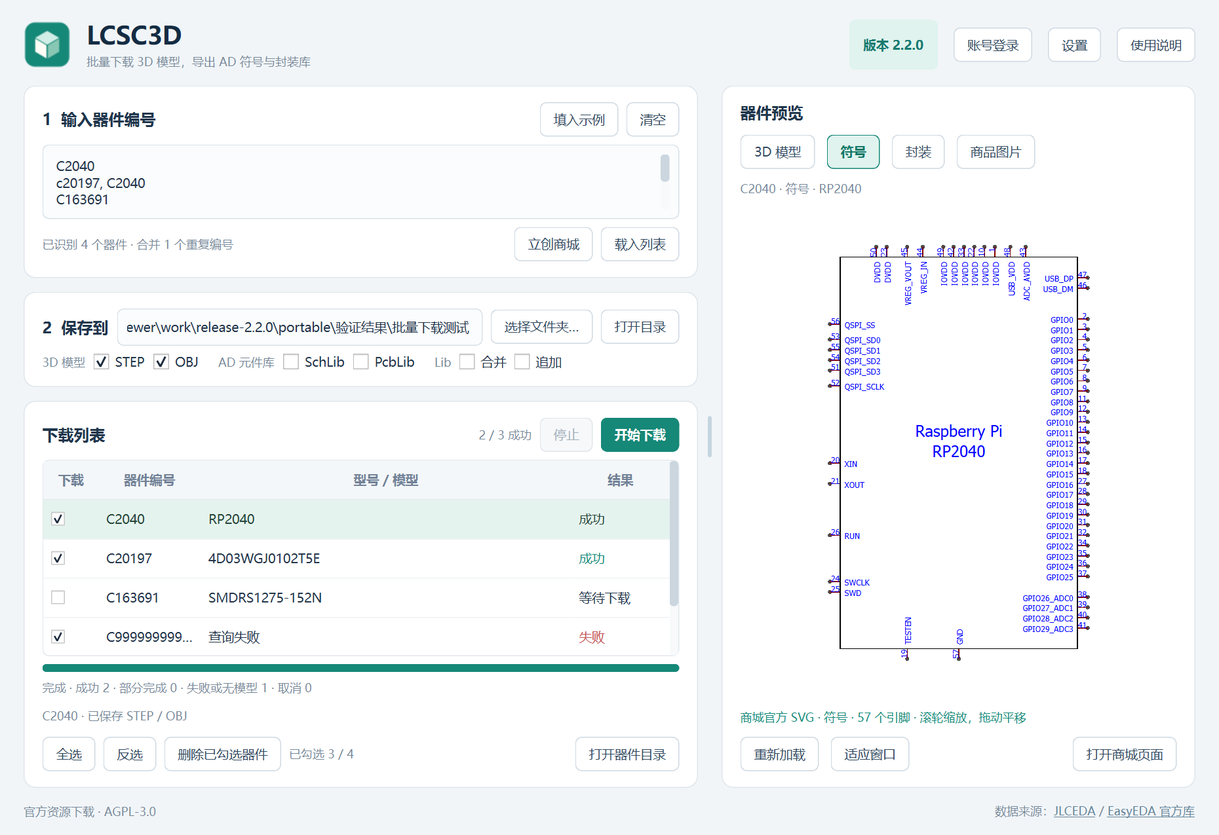
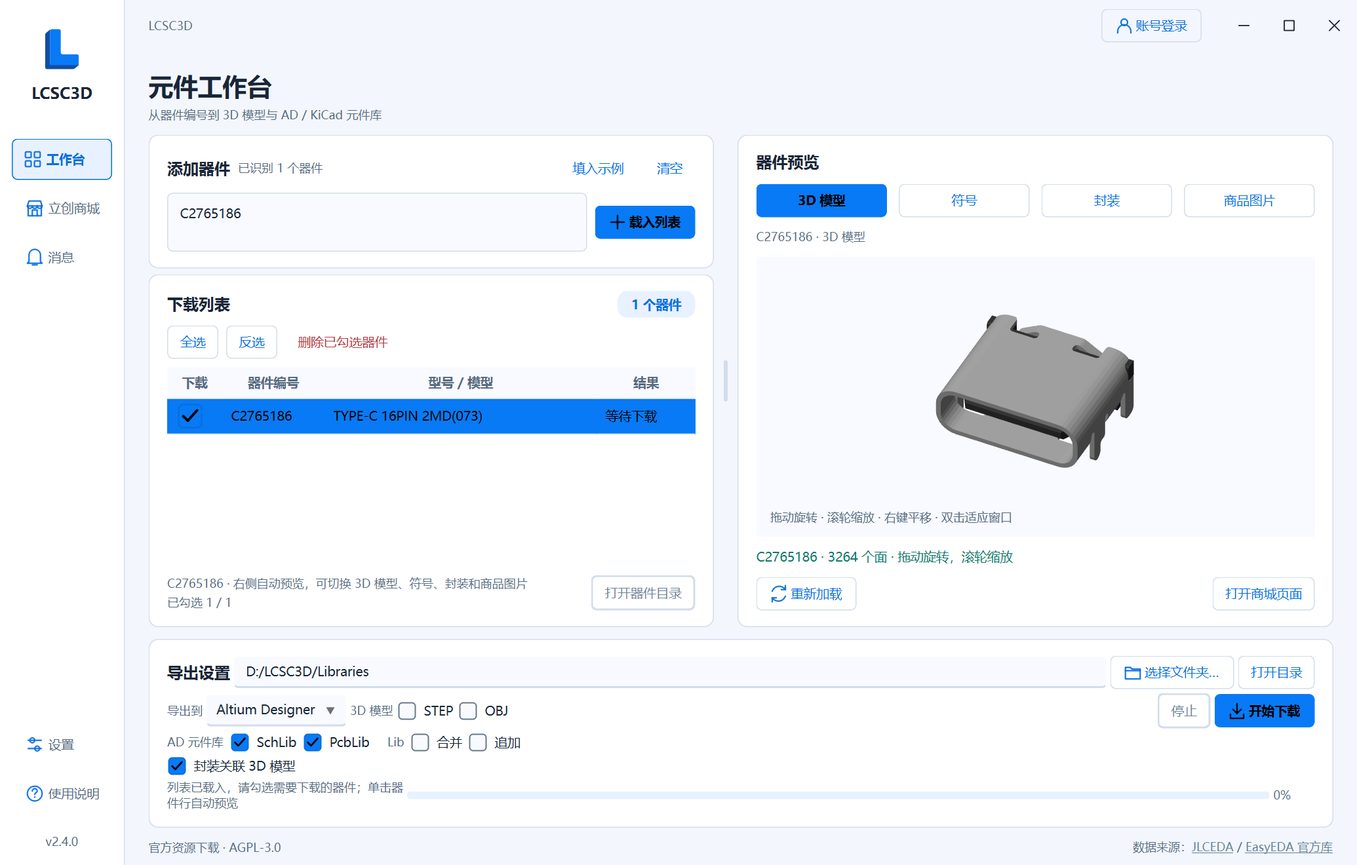
docs: announce 2.4.0 embedded 3D release with validated screenshots

diff --git a/README.en.md b/README.en.md
@@ -7,7 +7,7 @@
 
 [简体中文](README.md) | **English**
 
-# LCSC3D: LCSC 3D Model Downloader and AD / KiCad Library Exporter
+# LCSC3D: Embedded 3D Models and AD / KiCad Library Export
 
 [![Release](docs/images/release-badge.svg)](https://github.com/Travelerrrrrr/LCSC3D/releases/latest)
 [![Windows build](https://github.com/Travelerrrrrr/LCSC3D/actions/workflows/windows.yml/badge.svg)](https://github.com/Travelerrrrrr/LCSC3D/actions/workflows/windows.yml)
@@ -15,23 +15,24 @@
 [![License: AGPL-3.0](https://img.shields.io/badge/License-AGPL--3.0-blue.svg)](LICENSE)
 [![Support LCSC3D](https://img.shields.io/badge/Support-LCSC3D-087AF5)](docs/sponsorship.md)
 
-**Find parts through LCSC search, mainland account favorites or C-numbers, preview official resources, download STEP / OBJ models, and export AD or KiCad symbol and footprint libraries in batches.**
+**Find parts through LCSC search, mainland account favorites or C-numbers, and export AD / KiCad symbols and footprints with attached 3D models in batches. Download original STEP / OBJ files separately when needed.**
 
 LCSC3D is a portable Windows tool for hardware development, PCB design and mechanical fit checks. Download and run `LCSC3D.exe`; no Python installation is required. Generating libraries does not require the target EDA software to be installed.
 
-The source and local delivery are now **2.4.0**, adding smooth processing progress, a persistent Messages page and newest-first notices in the upper-right corner. The verified Type-C placement rules are retained. The online download links below still point to stable 2.3.0; this development build has not been published.
+**2.4.0 attaches 3D models to footprints by default.** AD PcbLib and KiCad 9/10 footprints embed STEP models, keeping the model with the library file. KiCad 8 uses portable external models. The original STEP size is preserved and the source placement anchor is converted before applying the official pose.
 
-**Current version: 2.3.0** · **[Download for Windows](https://github.com/Travelerrrrrr/LCSC3D/releases/latest/download/LCSC3D.exe)** · [Full source package](https://github.com/Travelerrrrrr/LCSC3D/releases/latest/download/LCSC3D.zip) · [User guide (Chinese)](app/README.md) · [Release notes (Chinese)](docs/releases/v2.3.0.md) · [Report an issue](https://github.com/Travelerrrrrr/LCSC3D/issues)
+**Current version: 2.4.0** · **[Download for Windows](https://github.com/Travelerrrrrr/LCSC3D/releases/latest/download/LCSC3D.exe)** · [Full source package](https://github.com/Travelerrrrrr/LCSC3D/releases/latest/download/LCSC3D.zip) · [User guide (Chinese)](app/README.md) · [Release notes (Chinese)](docs/releases/v2.4.0.md) · [Report an issue](https://github.com/Travelerrrrrr/LCSC3D/issues)
 
-![LCSC3D 2.3.0 workspace with KiCad symbol preview and export settings](docs/images/2.3.0-release/kicad.png)
+![LCSC3D 2.4.0 workspace: Type-C 3D preview, enabled footprint model binding, Messages navigation and download progress](docs/images/2.4.0-release/main.png)
 
-## What's new in 2.3.0
+## What's new in 2.4.0
 
-- **KiCad 8+ export:** Generate `.kicad_sym` symbol libraries and `.pretty` footprint libraries, with individual exports, independent merging and optional per-part copies.
-- **Target-specific settings:** Switch between AD and KiCad through **Export to**, retaining each target's settings. Configure KiCad pin electrical types and preview symbols in KiCad style.
-- **EDA intermediate representation:** Store component electrical and geometric information once, then generate files through each EDA's exporter, providing a foundation for future targets.
-- **Export and layout fixes:** Correct reversed pins in some symbols, support footprint vias, and fix overlapping result text, control spacing and flicker when toggling Merge.
-- **Selection and file management:** Product thumbnails in search and favorites, 20 results per search page, and custom AD project output folders, library names and direct library imports. Improved export logging and diagnostics.
+- **Embedded 3D models:** STEP inside AD `.PcbLib` and KiCad 9/10 footprint files, with relative external STEP paths for KiCad 8.
+- **Batch model binding:** Supported in individual exports, merged libraries, retained copies and AD append, independently of standalone STEP downloads.
+- **Original model dimensions:** Correct Type-C horizontal and height anchors while preserving official rotations, offsets and STEP contents.
+- **Smooth progress:** Lookup, preparation, processing and file publication contribute to progress. Cancellation does not falsely show 100%.
+- **Message history:** New Messages navigation, newest-first notices in the upper-right corner, search, filters and copyable details.
+- **Code and diagnostics:** Application packages organized by responsibility, with logs, updates, backups and recovery retained. All 636 regression tests passed.
 
 Earlier changes are listed in the [version history (Chinese)](docs/版本历史.md).
 
@@ -44,6 +45,28 @@ Earlier changes are listed in the [version history (Chinese)](docs/版本历史.
 5. Click **Download**, then **Part folder**. Open SchLib / PcbLib in AD, or add the symbol file and footprint directory through KiCad's library managers.
 
 **Merging again uses the current selection.** Normal and merged AD / KiCad exports replace same-name libraries after successful generation. KiCad replaces the entire same-name `.pretty` directory, removing old members. Include every part you want to retain. AD's **Append** mode adds parts to existing libraries; KiCad append is not currently available.
+
+## Embedded 3D models
+
+Select AD **PcbLib** or KiCad **Footprints** and leave **Attach 3D models to footprints** enabled. LCSC3D fetches the required official STEP and writes its placement into the footprint. **You do not need to select standalone STEP downloads or attach each model manually in the EDA application.**
+
+| Target | Model storage | Moving the library |
+| --- | --- | --- |
+| Altium Designer | STEP embedded in `.PcbLib` | The model stays inside the footprint library |
+| KiCad 9 / 10 | STEP embedded in `.kicad_mod` | The model stays with the footprint file; keep the `.pretty` library structure |
+| KiCad 8 | External STEP in `.pretty/LCSC3D.3dshapes/` | Keep the entire `.pretty` folder and model directory |
+
+These user-provided AD and KiCad screenshots show the exported Type-C models. Click an image to view the original.
+
+| AD embedded model example 1 | AD embedded model example 2 |
+| --- | --- |
+| <a href="docs/images/2.4.0-release/ad-embedded-typec-user.png"><img src="docs/images/2.4.0-release/ad-embedded-typec-user.png" alt="User validation: Type-C 3D model and footprint in an AD PcbLib" width="440"></a> | <a href="docs/images/2.4.0-release/ad-embedded-typec-side-user.png"><img src="docs/images/2.4.0-release/ad-embedded-typec-side-user.png" alt="User validation: another Type-C model and pads in AD" width="440"></a> |
+
+| KiCad PCB 3D view | KiCad underside and pads |
+| --- | --- |
+| <a href="docs/images/2.4.0-release/kicad-embedded-typec-top-user.png"><img src="docs/images/2.4.0-release/kicad-embedded-typec-top-user.png" alt="User validation: Type-C model and PCB in KiCad" width="440"></a> | <a href="docs/images/2.4.0-release/kicad-embedded-typec-bottom-user.png"><img src="docs/images/2.4.0-release/kicad-embedded-typec-bottom-user.png" alt="User validation: Type-C underside pads and mounting pins in KiCad" width="440"></a> |
+
+A missing or failed 3D model does not discard an available 2D footprint. **A storefront product does not guarantee that official symbol, footprint or model data is available.** See the [user guide (Chinese)](app/README.md) and [placement details (Chinese)](docs/3D模型放置.md).
 
 ## Symbol and footprint export
 
@@ -58,7 +81,7 @@ Earlier changes are listed in the [version history (Chinese)](docs/版本历史.
 
 In KiCad, **use the exported footprint library name as its nickname**, such as `LCSC3D`, so symbol footprint references resolve. Footprint vias retain their positions, drills and copper rings; confirm their net assignment in the PCB. Conversion approximations appear in export results.
 
-Both targets support multi-unit symbols, string pin numbers and common surface-mount / through-hole footprints. Stable 2.3.0 requires manual model association. Local development version **2.4.0 binds models by default**: embedded STEP for AD and KiCad 9/10, and portable external STEP for KiCad 8. See the [user guide](app/README.md). AD IntLib generation is not supported.
+Both targets support multi-unit symbols, string pin numbers and common surface-mount / through-hole footprints, with available 3D models attached by default. AD IntLib generation is not supported.
 
 Detailed operations are in the [user guide (Chinese)](app/README.md).
 
@@ -157,7 +180,7 @@ Startup checks for stable updates in the background. Use **Settings → About & 
 
 ## Requirements and limitations
 
-Downloads and online previews need internet access. 3D preview needs a graphics driver supporting WebGL. KiCad 8 / 9 / 10 have been verified; see the [verification record (Chinese)](docs/2.3.0验证记录.md) for scope.
+Downloads and online previews need internet access. 3D preview needs a graphics driver supporting WebGL. KiCad 8 / 9 / 10 have been verified; see the [verification record (Chinese)](docs/2.4.0验证记录.md) for scope.
 
 Preview and export assist selection and design. Check pins, electrical types, dimensions and footprints against the datasheet before production use. Re-export any symbols affected by reversed pins in earlier versions.
 

diff --git a/README.md b/README.md
@@ -7,7 +7,7 @@
 
 **简体中文** | [English](README.en.md)
 
-# LCSC3D：立创元件 3D 模型下载与 AD / KiCad 元件库导出
+# LCSC3D：3D 模型内嵌与 AD / KiCad 元件库导出
 
 [![Release](docs/images/release-badge.svg)](https://github.com/Travelerrrrrr/LCSC3D/releases/latest)
 [![Windows build](https://github.com/Travelerrrrrr/LCSC3D/actions/workflows/windows.yml/badge.svg)](https://github.com/Travelerrrrrr/LCSC3D/actions/workflows/windows.yml)
@@ -15,23 +15,24 @@
 [![License: AGPL-3.0](https://img.shields.io/badge/License-AGPL--3.0-blue.svg)](LICENSE)
 [![赞助支持 LCSC3D](docs/images/sponsorship/button.svg)](docs/sponsorship.md)
 
-**从立创商城搜索、账号收藏或 C 编号选择元件，预览官方资源，批量下载 STEP / OBJ，并导出 AD 或 KiCad 符号库与封装库。**
+**从立创商城搜索、账号收藏或 C 编号选择元件，批量生成 AD / KiCad 符号库，以及自带 3D 模型的封装库。也可独立下载官方 STEP / OBJ。**
 
 LCSC3D 是面向硬件开发、PCB 设计和结构配合的 Windows 便携工具。下载 `LCSC3D.exe` 即可运行，无须安装 Python；生成元件库也无须安装对应的 EDA 软件。
 
-当前源码与本地交付为 **2.4.0**，新增按处理阶段更新的平滑下载进度、“消息”记录页和最新在上的右上角通知；保留已验证的 Type-C 模型放置规则。以下在线下载仍指向正式版 2.3.0；本次未发布 Release。
+**2.4.0 默认开启封装关联 3D 模型。** AD PcbLib 与 KiCad 9/10 封装直接内嵌 STEP，模型随库文件保存，无需逐个手动关联；KiCad 8 提供外部模型兼容模式。保留 STEP 原始尺寸，并按官方位姿换算放置基准。
 
-**当前版本：2.3.0** · **[下载 Windows 程序](https://github.com/Travelerrrrrr/LCSC3D/releases/latest/download/LCSC3D.exe)** · [完整源码包](https://github.com/Travelerrrrrr/LCSC3D/releases/latest/download/LCSC3D.zip) · [使用说明](app/README.md) · [本版更新](docs/releases/v2.3.0.md) · [问题反馈](https://github.com/Travelerrrrrr/LCSC3D/issues)
+**当前版本：2.4.0** · **[下载 Windows 程序](https://github.com/Travelerrrrrr/LCSC3D/releases/latest/download/LCSC3D.exe)** · [完整源码包](https://github.com/Travelerrrrrr/LCSC3D/releases/latest/download/LCSC3D.zip) · [使用说明](app/README.md) · [本版更新](docs/releases/v2.4.0.md) · [问题反馈](https://github.com/Travelerrrrrr/LCSC3D/issues)
 
-![LCSC3D 2.3.0 工作台：KiCad 符号预览与导出设置](docs/images/2.3.0-release/kicad.png)
+![LCSC3D 2.4.0 工作台：Type-C 三维预览、默认开启封装关联 3D 模型、新消息入口与下载进度](docs/images/2.4.0-release/main.png)
 
-## 2.3.0 更新重点
+## 2.4.0 更新重点
 
-- **新增 KiCad 8+ 导出**：生成 `.kicad_sym` 符号库和 `.pretty` 封装库，支持独立导出、分别合并和保留单器件副本。
-- **按软件显示配置**：通过“导出到”切换 AD / KiCad，分别记住设置。KiCad 可配置引脚电气类型，并显示对应的符号预览。
-- **引入 EDA 中间层**：统一保存元件的电气与几何信息，由各软件的导出器生成文件，为后续适配其他 EDA 提供基础。
-- **修复导出与排版**：修正部分符号的引脚方向，补齐封装过孔，修复长结果文字重叠、控制栏间距和点击“合并”时的闪动。
-- **改进选型和文件管理**：搜索与收藏列表增加商品缩略图，搜索每页 20 项；AD 追加支持自定义工程输出目录、库名及按钮直接导入工程。完善导出日志与故障诊断。
+- **封装内嵌 3D**：AD `.PcbLib` 内嵌 STEP；KiCad 9/10 将模型保存到封装文件，KiCad 8 使用库内相对路径引用外部 STEP。
+- **批量生成带模型的封装**：单器件、分别合并、保留独立副本和 AD 追加均支持模型关联；不必另勾 STEP 下载。
+- **保持模型原始尺寸**：修正 Type-C 的水平和高度基准换算，保留官方角度、偏移和原始 STEP 内容。
+- **平滑下载进度**：查询、模型准备、处理和写库阶段推动进度；取消不再误显示 100%。
+- **消息记录**：左侧新增“消息”，通知统一从右上角出现，新消息在上；支持历史查看、搜索、筛选与复制。
+- **代码与诊断整理**：应用实现按职责分包，保留日志、更新、备份与失败恢复流程；636 项全量回归通过。
 
 旧版变化见 [版本历史](docs/版本历史.md)。
 
@@ -44,6 +45,28 @@ LCSC3D 是面向硬件开发、PCB 设计和结构配合的 Windows 便携工具
 5. 点击 **开始下载**，完成后点击 **打开器件目录**。在 AD 中打开 SchLib / PcbLib；在 KiCad 库管理器中添加符号库文件和封装库目录。
 
 **再次合并以本次勾选为准。** AD 和 KiCad 的普通导出、合并会在生成成功后覆盖同名库；KiCad 会替换整个同名 `.pretty` 目录，移除旧成员。需要保留的元件须一并勾选。AD 的 **追加** 模式用于向已有库增加元件，KiCad 暂不提供追加。
+
+## 封装内嵌 3D 模型
+
+勾选 AD **PcbLib** 或 KiCad **封装库**，保持 **封装关联 3D 模型** 开启，软件会取得所需官方 STEP 并写入封装。**无需另勾“STEP”下载，也无需在 EDA 中逐个手动关联模型。**
+
+| 目标 | 模型保存方式 | 复制或搬迁 |
+| --- | --- | --- |
+| Altium Designer | STEP 内嵌到 `.PcbLib` | 模型随封装库文件保存 |
+| KiCad 9 / 10 | STEP 内嵌到 `.kicad_mod` | 模型随封装文件保存，保留 `.pretty` 库结构 |
+| KiCad 8 | `.pretty/LCSC3D.3dshapes/` 内的外部 STEP | 整体保留 `.pretty` 文件夹及其模型目录 |
+
+以下是用户提供的 AD、KiCad 实测截图，展示导出后的 Type-C 三维效果。点击图片可查看原图。
+
+| AD 内嵌模型示例一 | AD 内嵌模型示例二 |
+| --- | --- |
+| <a href="docs/images/2.4.0-release/ad-embedded-typec-user.png"><img src="docs/images/2.4.0-release/ad-embedded-typec-user.png" alt="用户实测：AD PcbLib 中的 Type-C 三维模型与封装" width="440"></a> | <a href="docs/images/2.4.0-release/ad-embedded-typec-side-user.png"><img src="docs/images/2.4.0-release/ad-embedded-typec-side-user.png" alt="用户实测：AD 中另一款 Type-C 模型及焊盘" width="440"></a> |
+
+| KiCad PCB 三维视图 | KiCad 底面与焊盘视图 |
+| --- | --- |
+| <a href="docs/images/2.4.0-release/kicad-embedded-typec-top-user.png"><img src="docs/images/2.4.0-release/kicad-embedded-typec-top-user.png" alt="用户实测：KiCad 中 Type-C 模型与 PCB 的三维效果" width="440"></a> | <a href="docs/images/2.4.0-release/kicad-embedded-typec-bottom-user.png"><img src="docs/images/2.4.0-release/kicad-embedded-typec-bottom-user.png" alt="用户实测：KiCad 中 Type-C 底部焊盘与固定脚" width="440"></a> |
+
+缺少 3D 模型时仍可导出可用的二维封装；模型关联失败会保留二维结果并说明原因。**商城有商品，不代表官方已提供符号、封装或 3D 资源。**具体操作与放置范围见 [使用说明](app/README.md#封装关联-3d-模型) 和 [模型放置说明](docs/3D模型放置.md)。
 
 ## 符号与封装导出
 
@@ -58,7 +81,7 @@ LCSC3D 是面向硬件开发、PCB 设计和结构配合的 Windows 便携工具
 
 KiCad 添加封装库时，**库昵称应与导出库名一致**，例如 `LCSC3D`，以便符号找到对应封装。KiCad 封装中的过孔保留位置、孔径和铜环，网络归属需在 PCB 中确认。导出过程需要近似转换时，会在结果中提示。
 
-两种目标均支持多单元符号、字符串引脚编号和常见贴片 / 通孔封装。正式版 2.3.0 需要手动关联模型；本地开发版 **2.4.0 默认关联 3D**，支持 AD 内嵌、KiCad 9/10 内嵌与 KiCad 8 外部模型，详见 [使用说明](app/README.md)。AD 暂不生成 IntLib。
+两种目标均支持多单元符号、字符串引脚编号和常见贴片 / 通孔封装，并默认关联可用的 3D 模型。AD 暂不生成 IntLib。
 
 具体操作见 [使用说明](app/README.md)。
 
@@ -157,7 +180,7 @@ flowchart LR
 
 ## 使用范围
 
-下载和在线预览需要联网，3D 预览需要支持 WebGL 的显卡驱动。已验证 KiCad 8 / 9 / 10；支持情况与本版验证范围见 [验证记录](docs/2.3.0验证记录.md)。
+下载和在线预览需要联网，3D 预览需要支持 WebGL 的显卡驱动。已验证 KiCad 8 / 9 / 10；支持情况与本版验证范围见 [验证记录](docs/2.4.0验证记录.md)。
 
 预览和导出用于辅助选型与设计，生产使用前仍需按数据手册核对引脚、电气类型、尺寸和封装。此前用旧版导出的引脚方向异常符号，需要重新导出。
 

diff --git a/docs/releases/v2.4.0.md b/docs/releases/v2.4.0.md
@@ -1,0 +1,46 @@
+# LCSC3D 2.4.0：封装内嵌 3D 模型
+
+2.4.0 默认开启 **封装关联 3D 模型**。批量生成 AD / KiCad 封装库时，软件取得官方 STEP、换算放置基准，并将模型写入封装，减少逐个手动关联模型的操作。
+
+下载 `LCSC3D.exe` 即可在 Windows 10/11 x64 上运行，无须安装 Python 或外部转换工具。
+
+## 3D 模型直接进入封装库
+
+- **Altium Designer**：STEP 内嵌到 `.PcbLib`，模型随库文件保存和搬迁。
+- **KiCad 9 / 10**：STEP 内嵌到 `.kicad_mod`，保留 `.pretty` 库结构即可携带模型。
+- **KiCad 8**：选择外部模型模式，STEP 位于 `.pretty/LCSC3D.3dshapes/`，使用相对路径；搬迁时保留整个 `.pretty` 文件夹。
+- 单器件、合并、保留独立副本及 AD 追加均支持模型关联；**无需另勾 STEP 下载**。
+- 模型保持官方 STEP 原始尺寸和内容，不生成缩放副本。修正 Type-C 的水平/高度放置基准以及旧画布原点问题。
+- 没有模型或模型关联失败时，保留可用的二维封装并说明原因；不会因为缺少 3D 丢弃整个元件库。
+
+## 用户实测：AD 与 KiCad 三维效果
+
+以下四张图片由用户提供，展示导出后的 Type-C 模型、封装和 PCB 三维效果。点击可查看原图。
+
+| AD 内嵌模型示例一 | AD 内嵌模型示例二 |
+| --- | --- |
+| <a href="../images/2.4.0-release/ad-embedded-typec-user.png"><img src="../images/2.4.0-release/ad-embedded-typec-user.png" alt="AD PcbLib 中的 Type-C 三维模型与封装" width="440"></a> | <a href="../images/2.4.0-release/ad-embedded-typec-side-user.png"><img src="../images/2.4.0-release/ad-embedded-typec-side-user.png" alt="AD 中另一款 Type-C 模型及焊盘" width="440"></a> |
+
+| KiCad PCB 三维视图 | KiCad 底面与焊盘视图 |
+| --- | --- |
+| <a href="../images/2.4.0-release/kicad-embedded-typec-top-user.png"><img src="../images/2.4.0-release/kicad-embedded-typec-top-user.png" alt="KiCad 中 Type-C 模型与 PCB 的三维效果" width="440"></a> | <a href="../images/2.4.0-release/kicad-embedded-typec-bottom-user.png"><img src="../images/2.4.0-release/kicad-embedded-typec-bottom-user.png" alt="KiCad 中 Type-C 底部焊盘与固定脚" width="440"></a> |
+
+## 新版工作台
+
+![LCSC3D 2.4.0 工作台：三维预览、封装关联模型和消息入口](../images/2.4.0-release/main.png)
+
+- **平滑下载进度**：查询、模型准备、格式处理、合并和写库阶段均推动进度；取消保留实际进度。
+- **消息历史**：左侧增加“消息”，可查看已弹出的通知，搜索、筛选、复制和清空记录；重启后可查阅。
+- **右上角通知**：新消息在上方出现，早到的消息平滑下移；收起通知不删除历史。
+- **轻量模型处理**：仅扫描来源模型的顶点获取放置基准，不构建导出网格、不运行 CAD 内核或比较 STEP/OBJ 表面。
+- **代码整理**：应用按界面、服务、EDA 导出、模型及公共模块分包，更新构建、交付与源码检查流程。
+
+## 验证与使用
+
+本版通过 **636 项全量回归测试**、最终 EXE 的进度/消息验收、9 组模型导出自检，以及实际更新助手的替换和重启流程。模型关联覆盖 AD 与 KiCad、合并、独立副本及异常时保留二维结果。详细记录见 [验证记录](../2.4.0验证记录.md)。
+
+勾选 **PcbLib / KiCad 封装库**，保持 **封装关联 3D 模型** 开启，导出后在对应 EDA 中打开。KiCad 库昵称需与导出库名一致。AD / KiCad 普通导出与再次合并覆盖同名库，以本次选择为准；AD 追加保留旧成员，KiCad 暂不支持追加。
+
+商城商品存在不代表官方已经提供符号、封装或模型。单独下载 STEP/OBJ 与库内模型关联分别控制；模型的适用范围与操作见 [使用说明](../../app/README.md) 和 [模型放置说明](../3D模型放置.md)。
+
+Release 附件：`LCSC3D.exe`（便携程序）、`LCSC3D.zip`（完整源码）、`SHA256SUMS.txt`（SHA-256 校验和）。已有版本可从 **设置 → 关于与支持 → 检查更新** 升级。

diff --git a/docs/版本历史.md b/docs/版本历史.md
@@ -1,5 +1,15 @@
 # LCSC3D 版本历史
 
+## 2.4.0
+
+- 默认开启封装关联 3D：AD PcbLib 与 KiCad 9/10 内嵌 STEP，KiCad 8 提供外部模型模式。
+- 单器件、合并、独立副本和 AD 追加保留模型；无需另选 STEP 下载，保留原始尺寸及内容。
+- 修正 Type-C 的水平/高度基准与旧画布原点，采用轻量顶点扫描，移除 CAD 内核与几何比对。
+- 下载阶段推动平滑进度；新增消息历史、搜索、筛选和复制，通知从右上角最新在上显示。
+- 应用代码按职责分包，保留日志、备份、更新及失败恢复；636 项全量回归和成品验收通过。
+- README 更新新版工作台截图及用户提供的 AD/KiCad 三维实测图片。
+- [更新说明](releases/v2.4.0.md) · [验证记录](2.4.0验证记录.md)
+
 ## 2.4.0-demo.2（本地修复）
 
 - 修复 C2861386 等官方 JSON 中旧模型原点与新封装坐标混用，造成模型偏移及“明显远离封装”提醒的问题。
@@ -60,7 +70,7 @@
 - [更新说明](releases/v2.3.0-demo.1.md) · [架构说明](EDA中间层.md)
 
 
-2026-10-06 起，软件正式名称固定为 **LCSC3D**。主窗口标题、界面标题、应用名称和构建名称均使用 LCSC3D，不附加 Portable、Source、版本号或其他后缀。本次正式发行版本为 **2.3.0**，版本信息单独显示。
+2026-10-06 起，软件正式名称固定为 **LCSC3D**。主窗口标题、界面标题、应用名称和构建名称均使用 LCSC3D，不附加 Portable、Source、版本号或其他后缀。当前正式发行版本为 **2.4.0**，版本信息单独显示。
 
 最新本地交付固定为 `outputs/LCSC3D.exe` 和源码包 `outputs/LCSC3D.zip`，源码包根目录为 `LCSC3D/`。使用 `outputs/v版本号/` 暂存发行文件时，同步根目录 EXE、源码包、说明与校验和，保持最新交付入口一致。
 

diff --git a/docs/2.4.0验证记录.md b/docs/2.4.0验证记录.md
@@ -1,6 +1,6 @@
 # 2.4.0 下载进度、消息页与通知堆叠
 
-验证日期：2026-10-13。本地开发交付，不发布 Release。
+验证日期：2026-10-13。2.4.0 正式发布前的功能、成品与更新验证。
 
 ## 行为
 
@@ -16,7 +16,7 @@
 
 应用的 63 个实现模块迁入 `app/lcsc3d/`，按 core、services、eda、models、ui、selftests 六个目录管理；增加统一资源根目录模块。内部使用完整包路径，更新测试的导入及替换路径、版本检查、发行工作流与递归打包审计。按迁移前快照核对日志事件编号与更新助手文件名，保持既有诊断及更新标识不变。源码入口和 EXE 引导入口仍保留在 app 根目录。
 
-最终版本为 2.4.0，Windows 版本资源为 2.4.0.0。此任务同步分支，但不创建 Release 或标签；在线下载链接仍指向已发布的版本。
+最终版本为 2.4.0，Windows 版本资源为 2.4.0.0。开发交付阶段已同步分支；正式发布使用 v2.4.0 标签、LCSC3D.exe、完整源码 ZIP 和 SHA256SUMS.txt。
 
 ## 日志覆盖
 
@@ -39,3 +39,5 @@
 回归材料位于已忽略的 `work/progress-messages/`，不提交 EXE、日志、诊断 ZIP、配置或临时验证文件。
 
 最终 EXE 为 148,525,685 字节，固定入口 `outputs/LCSC3D.exe`，源码 ZIP、使用说明、验证记录与 SHA-256 清单同步。
+
+发布素材：新版首页由与最终 EXE 模块一致的 2.4.0 源码在隔离目录运行并捕获，显示真实公开 Type-C OBJ 预览，不访问用户会话。四张 AD/KiCad 三维图由用户提供并授权公开使用，保留原始图片内容。

diff --git a/app/README.md b/app/README.md
@@ -4,7 +4,7 @@ Windows 10/11 x64 便携软件，用嘉立创商城 C 编号下载官方 STEP/OB
 
 3D 预览读取官方 OBJ 网格，STEP 可独立下载。当前模型关联没有可用 STEP 时，程序会查询封装所关联的官方 3D 库，解析真实资源编号后尝试备用 STEP。单独下载的模型保留官方原始坐标和内容；关联到封装时，保留原始 STEP 的尺寸和内容，先按官方规则换算 XY 中心和最低 Z 基准，再应用 JSON 位置与角度。基准来自实际 STEP 资源配套 OBJ 的顶点扫描；不构建网格，不读取 STEP 几何，不进行表面比对或缩放。
 
-2.4.0 本地交付默认开启 **封装关联 3D 模型**，支持 AD 内嵌 STEP、KiCad 9/10 内嵌模型和 KiCad 8 外部模型兼容模式。已有设置自动补充默认值。正式发行下载链接仍指向此前的 2.3.0。
+2.4.0 默认开启 **封装关联 3D 模型**，支持 AD 内嵌 STEP、KiCad 9/10 内嵌模型和 KiCad 8 外部模型兼容模式。已有设置自动补充默认值。Windows 正式程序、源码包和校验文件在 GitHub 的 v2.4.0 Release 中提供。
 
 ## 下载进度与消息
 

diff --git a/docs/3D模型放置.md b/docs/3D模型放置.md
@@ -1,6 +1,6 @@
 # 封装中的 3D 模型
 
-2.4.0-demo.5 沿用官方 Standard JSON 接口，使用 IR 1.4，先换算官方模型放置基准，再应用位置和角度。模型关联默认开启，并独立于 STEP/OBJ 单文件下载。导出只扫描配套 OBJ 的顶点坐标获取基准，不构建网格，不读取 STEP 几何，不做表面比对或缩放；软件预览仍有独立的完整 OBJ 阅读器。
+2.4.0 沿用官方 Standard JSON 接口，使用 IR 1.4，先换算官方模型放置基准，再应用位置和角度。模型关联默认开启，并独立于 STEP/OBJ 单文件下载。导出只扫描配套 OBJ 的顶点坐标获取基准，不构建网格，不读取 STEP 几何，不做表面比对或缩放；软件预览仍有独立的完整 OBJ 阅读器。
 
 ## 数据契约
 
